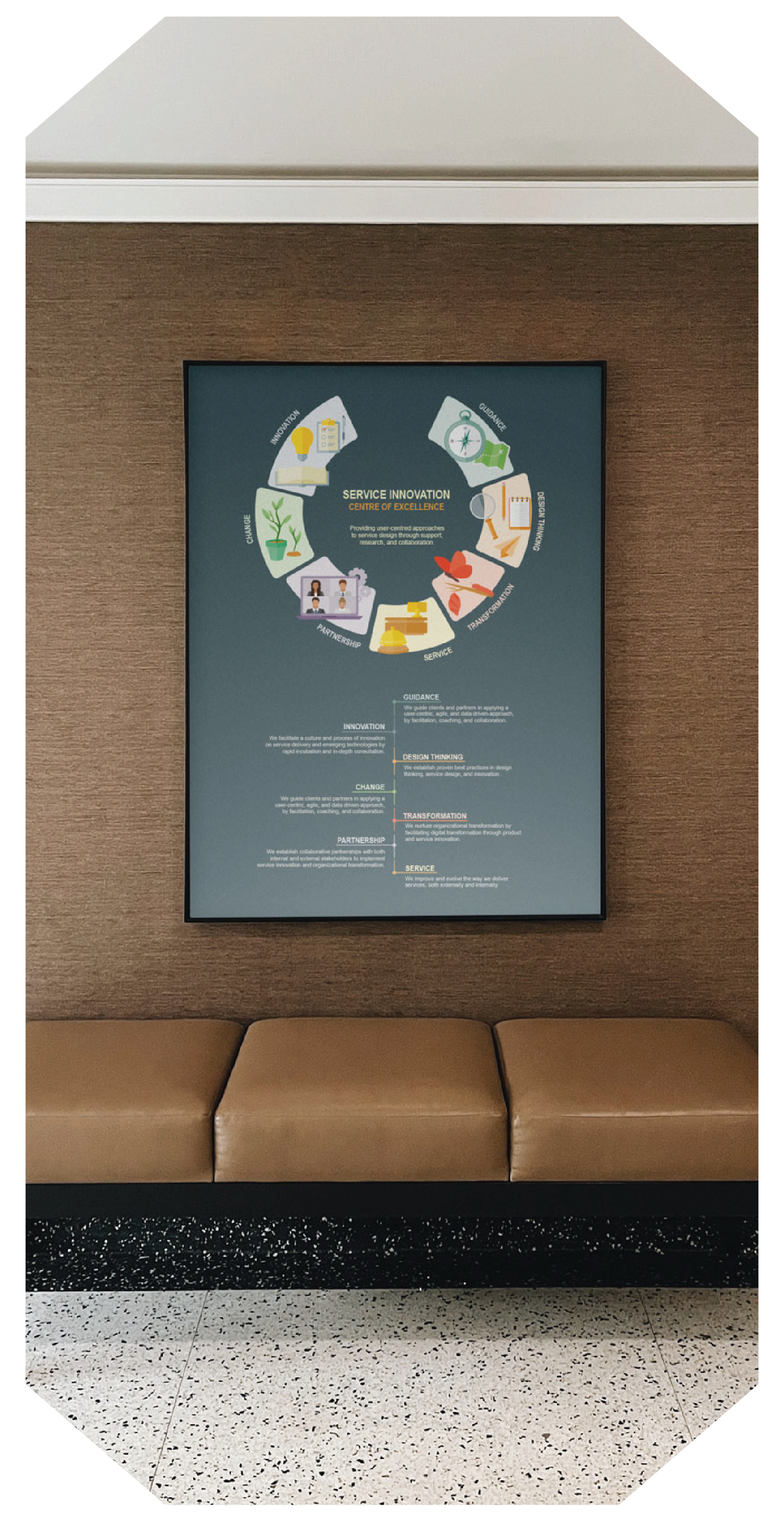
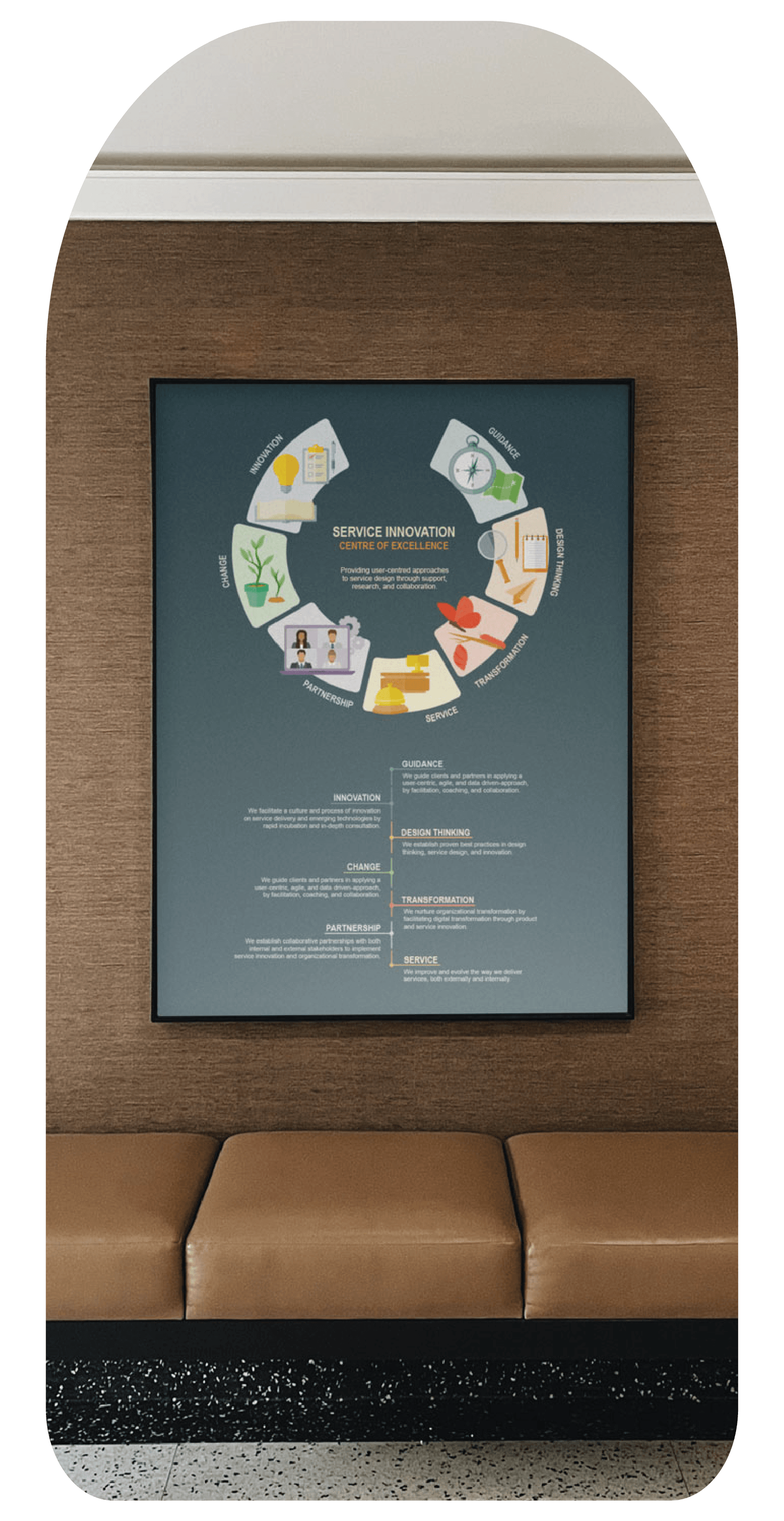
replace images with better frames

diff --git a/css/main.css b/css/main.css
@@ -107,11 +107,13 @@ font-style: italic;
     border-bottom: 2px solid transparent;
 
     transition:
-      border-bottom 250ms ease-in-out;
+      border-bottom 250ms ease-in-out,
+      color 250ms ease-in-out;
   }
 
   .nav-item:hover {
     border-bottom: 2px solid #89636D;
+    color: #89636D;
   }
 
   .nav-logo {
@@ -191,6 +193,12 @@ font-style: italic;
     color: white;
   }
 
+  .active {
+    border-bottom: 2px solid #89636D;
+    color: #89636D;
+
+  }
+
   .intro-container {
     margin-top: 60px;
   }
@@ -240,6 +248,7 @@ font-style: italic;
   .contact-container {
     background-color: #89636D;
     margin-top: 80px;
+    color: white;
   }
 
   .illustrations-heading {
@@ -250,7 +259,6 @@ font-style: italic;
 
   .contact-heading {
     margin-top: 40px;
-    color: white;
   }
 
 
@@ -309,15 +317,15 @@ font-style: italic;
     top: 30%;
     right: -40%;
     z-index: 0;
-    width: 400px;
+    width: 300px;
   }
 
   .curved-flower-left {
     position: absolute;
-    bottom: 30%;
+    bottom: 28%;
     left: -40%;
     z-index: 0;
-    width: 400px;
+    width: 300px;
   }
 
 

diff --git a/index.html b/index.html
@@ -20,7 +20,7 @@
     </label>-->
     <nav class="slide-menu">
       <ul class="nav">
-        <li><a href="index.html" class="nav-item">Home</a></li>
+        <li><a href="index.html" class="nav-item active">Home</a></li>
         <li><a href="#about" class="nav-item">About</a></li>
         <li>
           <a href="index.html" class="nav-logo">
@@ -100,7 +100,7 @@
       </div>
     </div>
     <div class="top-btn-container">
-      <a href="#top" class="top-btn"><i class="fa-solid fa-caret-up"></i>Back to top</a>
+      <a href="#top" class="top-btn"><i class="fa-solid fa-caret-up" aria-hidden="true"></i>Back to top</a>
     </div>
   </div>
 

diff --git a/projects/index.html b/projects/index.html
@@ -113,7 +113,9 @@
             </a>
           </div>
         </div>
-
+        <div class="top-btn-container">
+          <a href="#top" class="top-btn"><i class="fa-solid fa-caret-up" aria-hidden="true"></i>Back to top</a>
+        </div>
       </div>
     </div>
 
